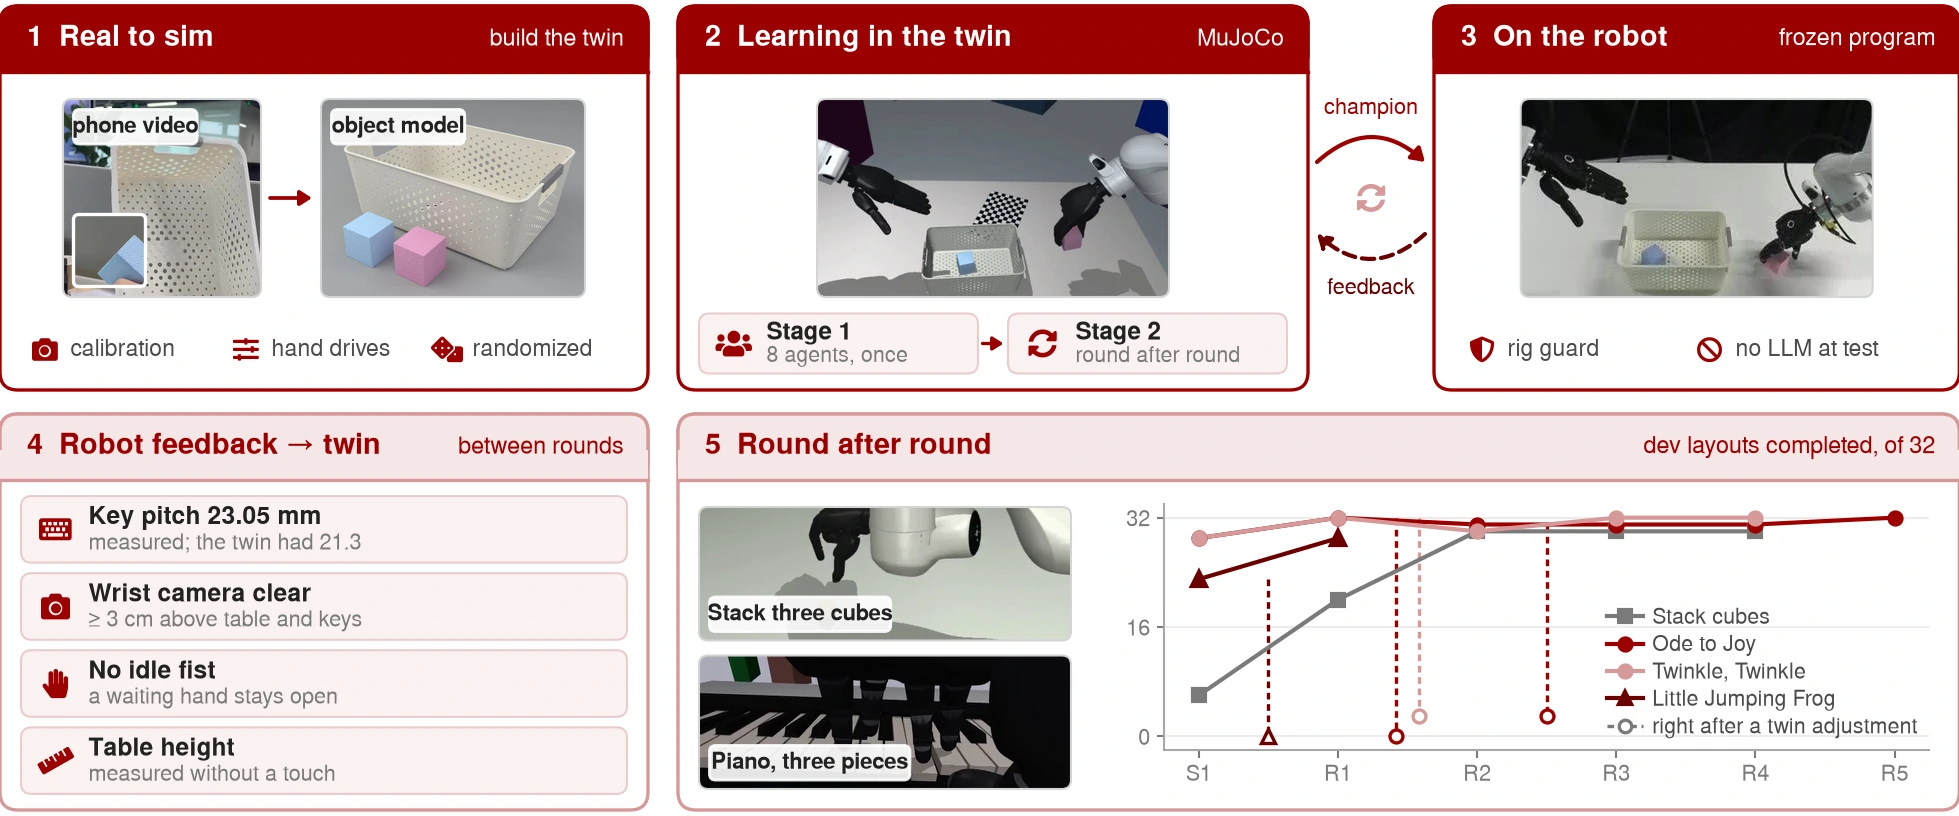
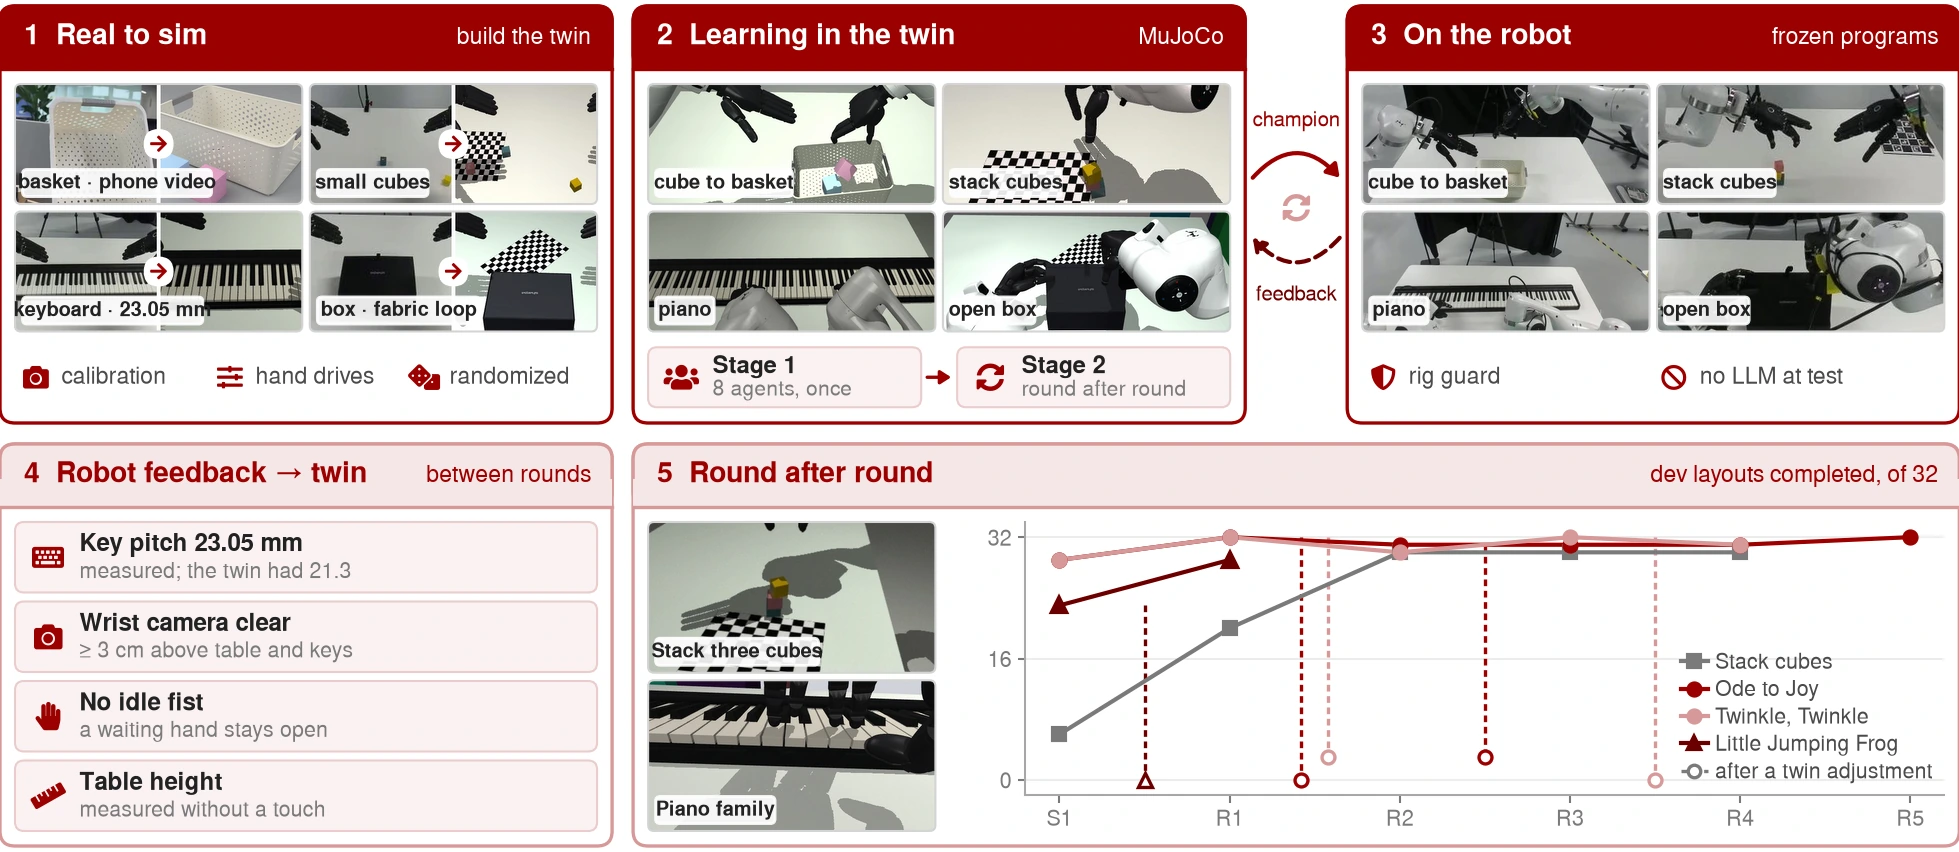
PyRUA-Dex page: descriptions synced with the paper
The source page's 9c98ff0 (vme0522/PyRUA-Dex, gh-pages): the abstract as the paper's
polished one; the headline tile on the online agent without the agent's own number;
"the frozen program" reaches the robot; the piano family's shared skill (a new piece
typically in under an hour of iteration); Figure 8 redrawn with the twin's own renders
and the paper's caption; Learning on the rig as the paper's Table 4 (six tasks,
119 -> 168 of 192; Write "Dex" 3 -> 14; Twinkle 29 -> 31 after five rounds) with a note
on the pieces made with the family's skill; the social card with the new teaser.

diff --git a/PyRUA-Dex/index.html b/PyRUA-Dex/index.html
@@ -163,7 +163,7 @@
       <div class="badge"><svg class="ic"><use href="#i-bolt"/></svg></div>
       <div class="stat-v">2.3<small>×</small></div>
       <div class="stat-k">the success rate of the same model acting online</div>
-      <div class="stat-t">61.5% vs 26.2% at the benchmark's step budget, with no tokens at test time</div>
+      <div class="stat-t">at the benchmark's step budget, with no tokens at test time</div>
     </div>
     <div class="stat">
       <div class="badge"><svg class="ic"><use href="#i-cube"/></svg></div>
@@ -184,7 +184,7 @@
     <div class="abs-grid">
       <div class="card abstract rv">
         <h3><svg class="ic"><use href="#i-paper"/></svg>Abstract</h3>
-        <p>Dexterous bimanual manipulation is usually learned from demonstrations, which are expensive to collect for multi-fingered hands and do not carry over from one hand to another. We show that coding agents can instead learn a <em>programmatic policy</em> for each task from their own trials in simulation: a program that runs frozen, with no demonstrations, no trained weights and no language-model calls at test time. <b>PyRUA-Dex</b> learns such a policy in two stages. In the <em>explore</em> stage, eight GPT-6 Astra agents work the task in parallel on fresh layouts, with rewinds and the simulator's stage feedback, and a distilling agent turns their frozen replays into a task library and a champion program. In the <em>practise</em> stage, one agent takes over the champion and treats the task as a chain of links: it runs single links over tens of layouts, lets failed stage functions try again, and keeps a new champion only if it is no worse on 32 development layouts. On Bench2Dex (26 bimanual tasks, 12 arm–hand embodiments, 5,200 evaluation episodes), the explored champions score 59.1 and the practised champions 72.9 (success rate 44.6% → 60.6%), a new state of the art on the benchmark, ahead of the best trained policy (70.5). At the benchmark's step budget the programmatic policies succeed 2.3 times as often as a GPT-6 Astra agent that controls the robot online, which needs ten times the budget and 34M tokens per episode to match them. On DexJoCo (11 tasks for Franka arms with Allegro hands), they succeed in 88.5% of the episodes under object randomization and 81.0% under full randomization of cameras, lighting and textures, against 54.1% and 40.3% for the best of the benchmark's trained policies and 78.2% for the online GPT-6 Astra agent. On a bimanual Franka FR3 rig with two 22-DoF Sharpa hands, the same procedure, run in a calibrated MuJoCo twin with objects reconstructed from a phone video, yields a frozen program that runs on the real robot.</p>
+        <p>Dexterous bimanual manipulation is usually learned from demonstrations, which are costly to collect for multi-fingered hands and do not transfer between hands. We show that coding agents can instead learn a <em>programmatic policy</em> for each task from their own trials in simulation: a program that runs frozen at test time, without demonstrations, trained weights or language-model calls. <b>PyRUA-Dex</b> learns it in two stages. In the <em>explore</em> stage, eight GPT-6 Astra agents search in parallel for a way through the task, with rewinds and stage feedback, and a distilling agent turns what scored into a task library and a champion. In the <em>practise</em> stage, one agent makes that way hold by strengthening its weakest link over many layouts, keeping a new champion only if it does no worse on unseen development layouts. On Bench2Dex (26 bimanual tasks on 12 arm–hand embodiments), practising lifts the score from 59.1 to 72.9, a new state of the art, and the frozen programs succeed 2.3 times as often as the same model acting online at the same step budget. On DexJoCo, they succeed in 88.5% of episodes under object randomization and 81.0% under full randomization, above the benchmark's trained policies and the online agent. On a real bimanual rig with two 22-DoF hands, the same procedure learns in a calibrated twin refined by the robot's feedback, its frozen programs run on the robot, and with a skill shared within a task family, a new task typically takes under an hour.</p>
       </div>
       <div class="glance">
         <div class="g-item rv"><div class="badge"><svg class="ic"><use href="#i-ban"/></svg></div><div><b>No demonstrations</b><span>Agents learn from their own trials in simulation, with rewinds and the simulator's stage count.</span></div></div>
@@ -322,7 +322,7 @@
     <div class="sec-head rv">
       <span class="eyebrow"><svg class="ic"><use href="#i-hand"/></svg>Real robot</span>
       <h2>From the twin to the real robot</h2>
-      <p class="lead">All learning happens in a simulated twin of our rig. Stage 1 runs as on Bench2Dex; Stage 2 runs round after round, and what the robot shows adjusts the twin for the next round. What reaches the robot is the frozen champion, with no language-model call.</p>
+      <p class="lead">All learning happens in a simulated twin of our rig. Stage 1 runs as on Bench2Dex; Stage 2 runs round after round, and what the robot shows adjusts the twin for the next round. What reaches the robot is the frozen program, with no language-model call.</p>
     </div>
     <div class="rig rv">
       <span><svg class="ic"><use href="#i-robot"/></svg>2 × Franka FR3 arms</span>
@@ -383,7 +383,7 @@
           </div>
         </section>
         <section class="th-fam" id="th-fam-piano" role="tabpanel" aria-labelledby="th-tab-piano" data-n="5" hidden>
-          <p class="th-desc"><svg class="ic"><use href="#i-piano"/></svg>Both hands play a piece from its score. Each film opens with the sound check, sped up.</p>
+          <p class="th-desc"><svg class="ic"><use href="#i-piano"/></svg>Both hands play a piece from its score. One skill shared by the piano family arranges a score for the two hands and plays it; with it a new piece typically takes under an hour of iteration. Each film opens with the sound check, sped up.</p>
           <div class="th-track">
             <figure class="th-slide" data-i="0">
               <div class="th-media">
@@ -460,8 +460,8 @@
 
     <h3 class="h3 rv"><svg class="ic"><use href="#i-sim"/></svg>Real to sim to real</h3>
     <figure class="fig rv">
-      <a class="zoom" href="static/images/paper/fig-r2s2r.webp?v=20261122b"><img src="static/images/paper/fig-r2s2r.webp?v=20261122b" alt="Real to sim to real on the rig: the twin built from a phone video and the rig's calibration, learning in the twin with Stage 1 once and Stage 2 round after round, the frozen champion on the robot, four adjustments the robot's feedback made to the twin, and the dev layouts completed after each round for stacking three cubes and three piano pieces" width="1959" height="816" loading="lazy"></a>
-      <figcaption><b>Real to sim to real on the rig.</b> A phone video and the rig's calibration give the twin; Stage 1 runs once and Stage 2 round after round, and the robot's feedback adjusts the twin between rounds (bottom: four such adjustments and the dev layouts completed after each round).</figcaption>
+      <a class="zoom" href="static/images/paper/fig-r2s2r.webp?v=20261123"><img src="static/images/paper/fig-r2s2r.webp?v=20261123" alt="Real to sim to real on the rig: four real objects beside their twin models, four tasks in the twin's own renders with Stage 1 once and Stage 2 round after round, the same four tasks on the robot, four adjustments the robot's feedback made to the twin, and the dev layouts completed after each round for stacking three cubes and three piano pieces" width="1959" height="852" loading="lazy"></a>
+      <figcaption><b>Real to sim to real on the rig.</b> Objects modelled from a phone video or photographs and the rig's calibration give the twin; Stage 1 runs once and Stage 2 round after round, and the robot's feedback adjusts the twin between rounds (bottom: four such adjustments and the dev layouts completed after each round).</figcaption>
     </figure>
 
     <h3 class="h3 rv"><svg class="ic"><use href="#i-sim"/></svg>Learning on the rig</h3>
@@ -469,17 +469,19 @@
     <div class="card twin-card rv">
       <div class="twin-top">
         <div class="legend"><span class="key"><i></i>Stage 1 champion</span><span class="key"><i class="s2"></i>Stage 2 champion, last round</span></div>
-        <div class="twin-total">All 5 tasks: <b>116 → 155</b> of 160 dev layouts (72% → 97%)</div>
+        <div class="twin-total">All 6 tasks: <b>119 → 168</b> of 192 dev layouts (62% → 88%)</div>
       </div>
       <div class="dumb">
         <div class="dumb-row" style="--a:29;--b:32"><div class="dumb-name"><b>Cube to basket</b><small>each hand puts its cube in the basket · 1 round</small></div><div class="track2"><span class="seg"></span><span class="pt" tabindex="0" data-v="29 / 32" data-l="Cube to basket · Stage 1"></span><span class="pt s2" tabindex="0" data-v="32 / 32" data-l="Cube to basket · Stage 2"></span></div><div class="dumb-v">29 → <b>32</b></div></div>
         <div class="dumb-row" style="--a:6;--b:30"><div class="dumb-name"><b>Stack cubes</b><small>a tower of three cubes · 4 rounds</small></div><div class="track2"><span class="seg"></span><span class="pt" tabindex="0" data-v="6 / 32" data-l="Stack cubes · Stage 1"></span><span class="pt s2" tabindex="0" data-v="30 / 32" data-l="Stack cubes · Stage 2"></span></div><div class="dumb-v">6 → <b>30</b></div></div>
+        <div class="dumb-row" style="--a:3;--b:14"><div class="dumb-name"><b>Write “Dex”</b><small>take the brush and write “Dex” on the cloth · 1 round</small></div><div class="track2"><span class="seg"></span><span class="pt" tabindex="0" data-v="3 / 32" data-l="Write “Dex” · Stage 1"></span><span class="pt s2" tabindex="0" data-v="14 / 32" data-l="Write “Dex” · Stage 2"></span></div><div class="dumb-v">3 → <b>14</b></div></div>
         <div class="dumb-group">Piano</div>
         <div class="dumb-row" style="--a:29;--b:32"><div class="dumb-name"><b>Ode to Joy</b><small>the right hand, eight phrases · 5 rounds</small></div><div class="track2"><span class="seg"></span><span class="pt" tabindex="0" data-v="29 / 32" data-l="Piano, Ode to Joy · Stage 1"></span><span class="pt s2" tabindex="0" data-v="32 / 32" data-l="Piano, Ode to Joy · Stage 2"></span></div><div class="dumb-v">29 → <b>32</b></div></div>
-        <div class="dumb-row" style="--a:29;--b:32"><div class="dumb-name"><b>Twinkle, Twinkle</b><small>two hands, tune and bass, six phrases · 4 rounds</small></div><div class="track2"><span class="seg"></span><span class="pt" tabindex="0" data-v="29 / 32" data-l="Piano, Twinkle, Twinkle · Stage 1"></span><span class="pt s2" tabindex="0" data-v="32 / 32" data-l="Piano, Twinkle, Twinkle · Stage 2"></span></div><div class="dumb-v">29 → <b>32</b></div></div>
+        <div class="dumb-row" style="--a:29;--b:31"><div class="dumb-name"><b>Twinkle, Twinkle</b><small>two hands, tune and bass, six phrases · 5 rounds</small></div><div class="track2"><span class="seg"></span><span class="pt" tabindex="0" data-v="29 / 32" data-l="Piano, Twinkle, Twinkle · Stage 1"></span><span class="pt s2" tabindex="0" data-v="31 / 32" data-l="Piano, Twinkle, Twinkle · Stage 2"></span></div><div class="dumb-v">29 → <b>31</b></div></div>
         <div class="dumb-row" style="--a:23;--b:29"><div class="dumb-name"><b>Little Jumping Frog</b><small>two hands, tune and bass, eight phrases · 1 round</small></div><div class="track2"><span class="seg"></span><span class="pt" tabindex="0" data-v="23 / 32" data-l="Piano, Little Jumping Frog · Stage 1"></span><span class="pt s2" tabindex="0" data-v="29 / 32" data-l="Piano, Little Jumping Frog · Stage 2"></span></div><div class="dumb-v">23 → <b>29</b></div></div>
         <div class="dumb-axis" aria-hidden="true"><span class="axis-pad"></span><div class="axis-ticks"><span style="left:0%">0</span><span style="left:25%">8</span><span style="left:50%">16</span><span style="left:75%">24</span><span style="left:100%">32</span></div><span class="axis-unit">of 32</span></div>
       </div>
+      <div class="skill-note"><span class="pill"><svg class="ic"><use href="#i-piano"/></svg>Piano · same-family skill</span><span>A new piece typically takes 30 minutes to an hour of iteration: Jasmine, Night Cruise, Secret Base, Little Jumping Frog (whole), Canon.</span></div>
       <details class="table-toggle">
         <summary>Show as a table</summary>
         <table class="twin-table">
@@ -487,11 +489,14 @@
           <tbody>
             <tr><td>Cube to basket</td><td>each hand puts its cube in the basket</td><td class="num">1200</td><td class="num">29</td><td class="num">32</td><td class="num">1</td></tr>
             <tr><td>Stack cubes</td><td>a tower of three cubes</td><td class="num">1000</td><td class="num">6</td><td class="num">30</td><td class="num">4</td></tr>
+            <tr><td>Write “Dex”</td><td>take the brush and write “Dex” on the cloth</td><td class="num">1500</td><td class="num">3</td><td class="num">14</td><td class="num">1</td></tr>
             <tr class="grp"><td colspan="6">Piano</td></tr>
             <tr><td>Ode to Joy</td><td>the right hand, eight phrases</td><td class="num">4500</td><td class="num">29</td><td class="num">32</td><td class="num">5</td></tr>
-            <tr><td>Twinkle, Twinkle</td><td>two hands, tune and bass, six phrases</td><td class="num">4500</td><td class="num">29</td><td class="num">32</td><td class="num">4</td></tr>
+            <tr><td>Twinkle, Twinkle</td><td>two hands, tune and bass, six phrases</td><td class="num">4500</td><td class="num">29</td><td class="num">31</td><td class="num">5</td></tr>
             <tr><td>Little Jumping Frog</td><td>two hands, tune and bass, eight phrases</td><td class="num">6000</td><td class="num">23</td><td class="num">29</td><td class="num">1</td></tr>
-            <tr><td><b>Total</b></td><td></td><td></td><td class="num"><b>116 / 160</b></td><td class="num"><b>155 / 160</b></td><td></td></tr>
+            <tr><td><b>Total</b></td><td></td><td></td><td class="num"><b>119 / 192</b></td><td class="num"><b>168 / 192</b></td><td></td></tr>
+            <tr class="grp"><td colspan="6">Piano, same-family skill (30 min to 1 h of iteration)</td></tr>
+            <tr><td colspan="6">Jasmine, Night Cruise, Secret Base, Little Jumping Frog (whole), Canon</td></tr>
           </tbody>
         </table>
       </details>

diff --git a/PyRUA-Dex/static/css/site.css b/PyRUA-Dex/static/css/site.css
@@ -321,6 +321,7 @@ tr.ours.s1 .score .fill { background: var(--rose); }
 .key i.s2 { background: var(--red); }
 .twin-total { font-size: 14.5px; color: var(--sub); }
 .twin-total b { color: var(--ink); }
+.skill-note { display: flex; flex-wrap: wrap; align-items: center; gap: 6px 12px; margin-top: 14px; font-size: 13.5px; line-height: 1.5; color: var(--sub); }
 .dumb { position: relative; }
 .dumb-group { padding: 12px 0 2px; font-size: 11.5px; font-weight: 700; letter-spacing: .08em; text-transform: uppercase; color: var(--red); }
 .twin-table tr.grp td { padding-top: 10px; font-weight: 700; color: var(--red); }
